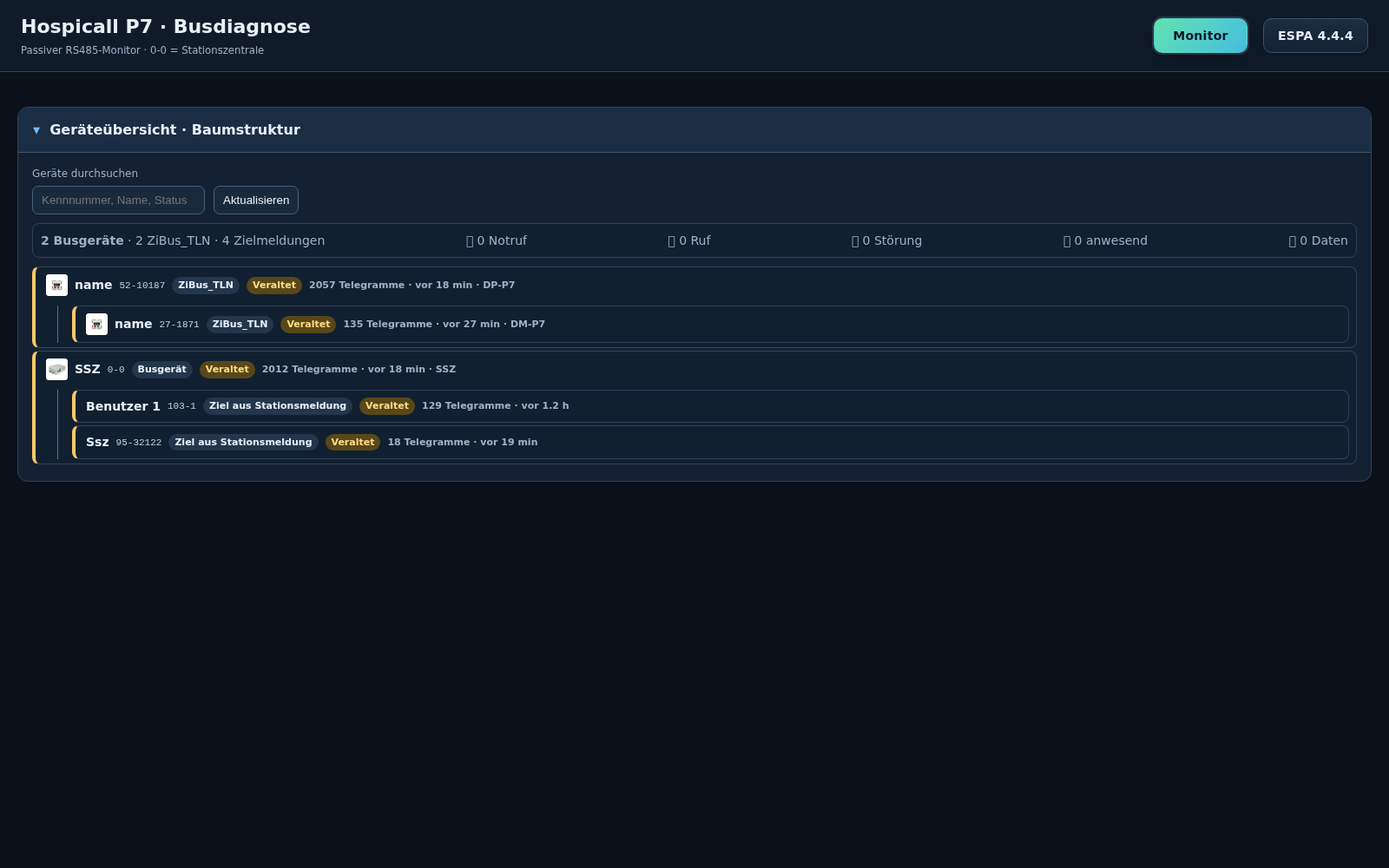
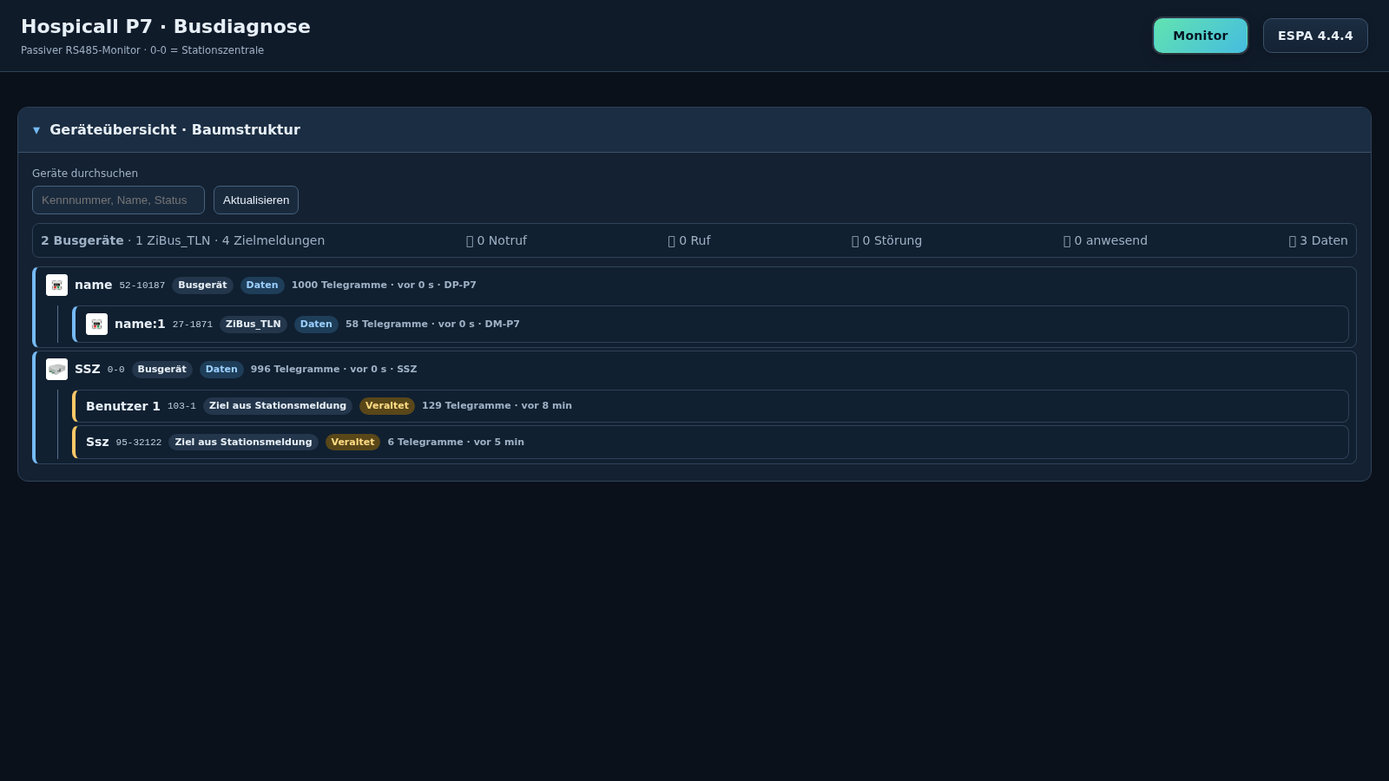
Classify observed P7 bus devices correctly

diff --git a/P7/index.html b/P7/index.html
@@ -36,13 +36,13 @@ function removeGroupType(button){let row=button.closest('.group-type-row'),map=c
 
 function age(n){return n==null?'—':n<60?Math.round(n)+' s':n<3600?Math.round(n/60)+' min':(n/3600).toFixed(1)+' h'}function num(n){return Number(n||0).toLocaleString('de-DE')}
 function renderCharts(){if(!state)return;let now=state.now,span=Number($('range').value),start=now-span,step=Number($('sampleWidth').value)||60,count=Math.ceil(span/step),dev=$('deviceFilter').value,events=state.telemetry||[];let html='';for(const [kind,label,color] of series){if(!$('series_'+kind)?.checked)continue;let vals=Array(count).fill(0);for(const e of events){if(e.kind!==kind||e.time<start||e.time>now||dev!=='*'&&e.device!==dev)continue;vals[Math.min(count-1,Math.floor((e.time-start)/step))]+=Number(e.value||1)}let max=Math.max(1,...vals),sum=vals.reduce((a,b)=>a+b,0),pts=vals.map((v,i)=>`${22+i*756/Math.max(1,count-1)},${128-110*v/max}`).join(' '),dots=vals.map((v,i)=>`<circle class="point" cx="${22+i*756/Math.max(1,count-1)}" cy="${128-110*v/max}" r="2.3" fill="${color}"/>`).join('');html+=`<div class="chart"><div class="charthead"><b style="color:${color}">${label}</b><strong>${num(sum)}</strong></div><svg class="linechart" viewBox="0 0 800 145" preserveAspectRatio="none" role="img" aria-label="${esc(label)} als Liniendiagramm">${[18,73,128].map(y=>`<line class="gridline" x1="22" y1="${y}" x2="778" y2="${y}"/>`).join('')}<polyline class="series-line" stroke="${color}" points="${pts}"/>${dots}<title>${esc(label)} · Maximum ${max} je ${step} s</title></svg><div class="axis"><span>vor ${age(span)}</span><span>Maximum ${max} / ${step} s</span><span>jetzt</span></div></div>`} $('charts').innerHTML=html||'<p class="muted">Keine Datenreihe gewählt.</p>'}
-function renderDevices(){if(!state)return;let expanded=new Set([...$('devices').querySelectorAll('.device[open]')].map(el=>el.dataset.deviceId)),targets=Object.fromEntries(Object.entries(state.central_targets||{}).map(([id,t])=>[canon(id),t])),devices=Object.fromEntries((state.devices||[]).map(d=>[canon(d.id),d])),children=Object.fromEntries(Object.entries(state.embedded_children||{}).map(([id,c])=>[canon(id),c])),stale=Number(state.config?.stale_seconds||180),q=$('search').value.toLowerCase(),list=(state.devices||[]).filter(d=>Number(d.count)>0&&(d.id+' '+(d.name||'')+' '+(targets[canon(d.id)]?.name||'')+' '+(d.history||[]).map(h=>h.message).join(' ')).toLowerCase().includes(q)),order=$('sort').value;if(order==='activity')list.sort((a,b)=>a.age-b.age);else if(order==='issues')list.sort((a,b)=>(b.errors.checksum||0)+(b.polls_without_reply||0)+(b.messages_without_ack||0)-(a.errors.checksum||0)-(a.polls_without_reply||0)-(a.messages_without_ack||0));else if(order==='id')list.sort((a,b)=>a.id.localeCompare(b.id,undefined,{numeric:true}));else list.sort((a,b)=>(a.name||observedItem(canon(a.id),devices,targets,children,state.now,stale).name||a.id).localeCompare(b.name||observedItem(canon(b.id),devices,targets,children,state.now,stale).name||b.id,'de',{numeric:true,sensitivity:'base'}));$('devices').innerHTML=list.length?'<div class="device-grid">'+list.map(d=>{let id=canon(d.id),h=d.history||[],item=observedItem(id,devices,targets,children,state.now,stale),typeInfo=groupTypeFor(id),displayName=d.name||item.name||id,msg=item.label+(item.source?' · '+item.source:''),kind=item.kind,label={emergency:'Notruf',call:'Ruf',fault:'Störung',presence:'Anwesend',away:'Abwesend',stale:'Veraltet',data:'Telegramm'}[kind]||'Telegramm',subdevices=Object.entries(children).filter(([childId,c])=>canon(c.parent)===id).sort((a,b)=>a[0].localeCompare(b[0],undefined,{numeric:true})),subdeviceIcons=subdevices.map(([childId,c])=>{let childItem=observedItem(childId,devices,targets,children,state.now,stale),sd=devices[childId],target=targets[childId],hasStatus=!!(sd&&(Object.values(sd.signals||{}).some(x=>x.time)||sd.reported_status)||Object.keys(c.signals||{}).length||target&&Object.keys(target.statuses||{}).length),ageSeconds=Math.max(0,Number(state.now)-Math.max(Number(c.last_seen||0),Number(devices[canon(c.parent)]?.last_seen||0))),statusKind=hasStatus?childItem.kind:ageSeconds>stale?'stale':'data',statusText=hasStatus?childItem.label:ageSeconds>stale?'ZiBus_TLN veraltet':'ZiBus_TLN im Telegramm gesehen; Einzelstatus nicht decodiert';let picture=typePicture(childId,'subdevice-picture-img')||'<svg class="subdevice-picture" viewBox="0 0 24 24" aria-hidden="true"><rect x="5" y="3" width="14" height="18" rx="2"></rect><path d="M8 7h8M8 11h8M8 15h5"></path><circle cx="12" cy="18" r=".7"></circle></svg>';return '<span class="subdevice-chip '+statusKind+'" title="ZiBus_TLN (Zimmerbus-Teilnehmer) '+esc(childId)+' · '+esc(statusText)+' · gemeldet von '+esc(id)+' · Typ '+esc(c.command||'unbekannt')+'">'+picture+'<span>'+esc(childId)+'</span></span>'}).join('');return `<details class="device room ${kind}" data-device-id="${esc(id)}"><summary><span class="room-top"><span class="device-title">${typeInfo.image?'<img class="group-device-picture" src="'+typeInfo.image+'" alt="" title="'+esc(typeInfo.label||typeInfo.product?.name||('Gruppe '+typeInfo.group))+'">':''}<h2>${esc(displayName)}</h2>${typeInfo.label?'<small class="group-type-code">'+esc(typeInfo.label)+'</small>':''}</span><span class="badge">${label}</span></span><span class="room-meta" title="${esc(id+' · '+msg)}">${esc(id+' · '+msg)}</span>${subdevices.length?'<span class="subdevice-strip" aria-label="'+subdevices.length+' gemeldete ZiBus_TLN">'+subdeviceIcons+'</span>':'<span class="icons"><span class="device-icon '+kind+'" title="Bus-ID '+esc(id)+'">BUS</span></span>'}<span class="room-foot"><span>${num(d.count)} Telegramme · ${subdevices.length} ZiBus_TLN</span><span>${d.age==null?'nie':'vor '+age(d.age)}</span></span></summary><div class="device-more"><small>Bus-ID ${esc(id)} · Telegrammtypen ${(Object.keys(d.types||{}).slice(0,8).map(esc).join(', ')||'keine')}</small><p class="muted">Prüfsummenfehler ${num(d.errors.checksum)} · ohne Antwort ${num(d.polls_without_reply)} · ohne Quittung ${num(d.messages_without_ack)} · bytegleich ${num(d.repetitions)}</p><p class="muted">Letztes Telegramm: ${esc(h[0]?.message||'—')}</p><small>Vorheriges: ${esc(h[1]?.message||'—')}</small><code>${esc(h[0]?.hex||'—')}</code></div></details>`}).join('')+'</div>':'<p class="muted">Keine Busteilnehmer seit dem Zähler-Reset.</p>';$('devices').querySelectorAll('.device').forEach(el=>{if(expanded.has(el.dataset.deviceId))el.open=true})}
+function renderDevices(){if(!state)return;let expanded=new Set([...$('devices').querySelectorAll('.device[open]')].map(el=>el.dataset.deviceId)),targets=Object.fromEntries(Object.entries(state.central_targets||{}).map(([id,t])=>[canon(id),t])),devices=Object.fromEntries((state.devices||[]).map(d=>[canon(d.id),d])),children=Object.fromEntries(Object.entries(state.embedded_children||{}).map(([id,c])=>[canon(id),c])),stale=Number(state.config?.stale_seconds||180),q=$('search').value.toLowerCase(),list=(state.devices||[]).filter(d=>Number(d.count)>0&&(d.id+' '+(d.name||'')+' '+(targets[canon(d.id)]?.name||'')+' '+(d.history||[]).map(h=>h.message).join(' ')).toLowerCase().includes(q)),order=$('sort').value;if(order==='activity')list.sort((a,b)=>a.age-b.age);else if(order==='issues')list.sort((a,b)=>(b.errors.checksum||0)+(b.polls_without_reply||0)+(b.messages_without_ack||0)-(a.errors.checksum||0)-(a.polls_without_reply||0)-(a.messages_without_ack||0));else if(order==='id')list.sort((a,b)=>a.id.localeCompare(b.id,undefined,{numeric:true}));else list.sort((a,b)=>(a.name||observedItem(canon(a.id),devices,targets,children,state.now,stale).name||a.id).localeCompare(b.name||observedItem(canon(b.id),devices,targets,children,state.now,stale).name||b.id,'de',{numeric:true,sensitivity:'base'}));$('devices').innerHTML=list.length?'<div class="device-grid">'+list.map(d=>{let id=canon(d.id),h=d.history||[],item=observedItem(id,devices,targets,children,state.now,stale),typeInfo=groupTypeFor(id),displayName=d.name||item.name||id,msg=item.label+(item.source?' · '+item.source:''),kind=item.kind,label={emergency:'Notruf',call:'Ruf',fault:'Störung',presence:'Anwesend',away:'Abwesend',stale:'Veraltet',data:'Telegramm'}[kind]||'Telegramm',subdevices=Object.entries(children).filter(([childId,c])=>canon(c.parent)===id&&!(devices[childId]&&Number(devices[childId].count)>0)).sort((a,b)=>a[0].localeCompare(b[0],undefined,{numeric:true})),subdeviceIcons=subdevices.map(([childId,c])=>{let childItem=observedItem(childId,devices,targets,children,state.now,stale),sd=devices[childId],target=targets[childId],hasStatus=!!(sd&&(Object.values(sd.signals||{}).some(x=>x.time)||sd.reported_status)||Object.keys(c.signals||{}).length||target&&Object.keys(target.statuses||{}).length),ageSeconds=Math.max(0,Number(state.now)-Math.max(Number(c.last_seen||0),Number(devices[canon(c.parent)]?.last_seen||0))),statusKind=hasStatus?childItem.kind:ageSeconds>stale?'stale':'data',statusText=hasStatus?childItem.label:ageSeconds>stale?'ZiBus_TLN veraltet':'ZiBus_TLN im Telegramm gesehen; Einzelstatus nicht decodiert';let picture=typePicture(childId,'subdevice-picture-img')||'<svg class="subdevice-picture" viewBox="0 0 24 24" aria-hidden="true"><rect x="5" y="3" width="14" height="18" rx="2"></rect><path d="M8 7h8M8 11h8M8 15h5"></path><circle cx="12" cy="18" r=".7"></circle></svg>';return '<span class="subdevice-chip '+statusKind+'" title="ZiBus_TLN (Zimmerbus-Teilnehmer) '+esc(childId)+' · '+esc(statusText)+' · gemeldet von '+esc(id)+' · Typ '+esc(c.command||'unbekannt')+'">'+picture+'<span>'+esc(childId)+'</span></span>'}).join('');return `<details class="device room ${kind}" data-device-id="${esc(id)}"><summary><span class="room-top"><span class="device-title">${typeInfo.image?'<img class="group-device-picture" src="'+typeInfo.image+'" alt="" title="'+esc(typeInfo.label||typeInfo.product?.name||('Gruppe '+typeInfo.group))+'">':''}<h2>${esc(displayName)}</h2>${typeInfo.label?'<small class="group-type-code">'+esc(typeInfo.label)+'</small>':''}</span><span class="badge">${label}</span></span><span class="room-meta" title="${esc(id+' · '+msg)}">${esc(id+' · '+msg)}</span>${subdevices.length?'<span class="subdevice-strip" aria-label="'+subdevices.length+' gemeldete ZiBus_TLN">'+subdeviceIcons+'</span>':'<span class="icons"><span class="device-icon '+kind+'" title="Bus-ID '+esc(id)+'">BUS</span></span>'}<span class="room-foot"><span>${num(d.count)} Telegramme · ${subdevices.length} ZiBus_TLN</span><span>${d.age==null?'nie':'vor '+age(d.age)}</span></span></summary><div class="device-more"><small>Bus-ID ${esc(id)} · Telegrammtypen ${(Object.keys(d.types||{}).slice(0,8).map(esc).join(', ')||'keine')}</small><p class="muted">Prüfsummenfehler ${num(d.errors.checksum)} · ohne Antwort ${num(d.polls_without_reply)} · ohne Quittung ${num(d.messages_without_ack)} · bytegleich ${num(d.repetitions)}</p><p class="muted">Letztes Telegramm: ${esc(h[0]?.message||'—')}</p><small>Vorheriges: ${esc(h[1]?.message||'—')}</small><code>${esc(h[0]?.hex||'—')}</code></div></details>`}).join('')+'</div>':'<p class="muted">Keine Busteilnehmer seit dem Zähler-Reset.</p>';$('devices').querySelectorAll('.device').forEach(el=>{if(expanded.has(el.dataset.deviceId))el.open=true})}
 
 const levels={emergency:0,call:1,fault:2,presence:3,away:4,data:5,stale:6};
 const labels={emergency:'Notruf',call:'Ruf',fault:'Störung',presence:'Anwesend',away:'Abwesend',data:'Daten',stale:'Veraltet'};
-function observedItem(id,devices,targets,children,now,stale){let d=devices[id],t=targets[id],c=children[id],parent=c?.parent?devices[canon(c.parent)]:null,liveTime=Math.max(Number(d?.last_seen||0),Number(parent?.last_seen||0),Number(c?.last_seen||0),Number(t?.last_seen||0)),candidates=[];if(d){for(let sig of Object.values(d.signals||{}))if(sig.time)candidates.push({kind:sig.active===true?(sig.code==='0A'?'emergency':sig.code==='07'||sig.code==='09'?'call':sig.code==='0E'?'presence':'data'):sig.active===false&&sig.code==='0E'?'away':'data',label:sig.label||sig.name||sig.code,time:sig.time,liveTime:d.last_seen,source:'Telegramm '+sig.code});if(d.reported_status&&d.reported_status!=='Ruhezustand')candidates.push({kind:/Notruf/.test(d.reported_status)?'emergency':/Ruf|Alarm/.test(d.reported_status)?'call':/Anwesend/.test(d.reported_status)?'presence':'data',label:d.reported_status,time:d.reported_status_time||d.last_seen,liveTime:d.last_seen,source:'Telegrammstatus von '+id})}if(c)for(let sig of Object.values(c.signals||{}))if(sig.time)candidates.push({kind:sig.active===true?(sig.code==='0A'?'emergency':sig.code==='07'||sig.code==='09'?'call':sig.code==='0E'?'presence':'data'):sig.active===false&&sig.code==='0E'?'away':'data',label:sig.label||sig.name||sig.code,time:sig.time,liveTime:Math.max(Number(c.last_seen||0),Number(parent?.last_seen||0)),source:'ZiBus_TLN-Telegramm von '+(sig.source||c.parent||'unbekannt')});if(t)for(let status of Object.values(t.statuses||{}))if(status.time)candidates.push({kind:status.active===false?'data':status.kind==='emergency'?'emergency':status.kind==='call'||status.kind==='bath_call'?'call':status.kind==='fault'?'fault':status.kind==='presence'?'presence':'data',label:status.label||status.name||status.code||'Stationsmeldung',time:status.time,liveTime,source:'Zielmeldung von '+(status.source||'0-0')+' an '+id});let fresh=candidates.filter(x=>now-Math.max(Number(x.time||0),Number(x.liveTime||0))<=stale).sort((a,b)=>Number(b.time||0)-Number(a.time||0)||levels[a.kind]-levels[b.kind]),best=fresh[0];if(!best&&candidates.length){best={...candidates.sort((a,b)=>Number(b.time||0)-Number(a.time||0))[0],kind:'stale'}}if(!best&&d)best={kind:now-d.last_seen>stale?'stale':'data',label:'Telegramm beobachtet',time:d.last_seen,liveTime:d.last_seen,source:'Busframe'};if(!best&&t)best={kind:now-t.last_seen>stale?'stale':'data',label:'Stationsmeldung',time:t.last_seen,liveTime:t.last_seen,source:'Zielmeldung aus Mitschnitt'};if(!best)best={kind:now-liveTime>stale?'stale':'data',label:'Gerät gesehen',time:liveTime,liveTime,source:c?'Telegramm '+c.command:'Busframe'};return {...best,id,d,t,c,name:t?.name||'',count:d?.count||t?.count||c?.count||0,observed_at:Math.max(Number(best.time||0),Number(best.liveTime||0))}}
+function observedItem(id,devices,targets,children,now,stale){let d=devices[id],t=targets[id],c=children[id],parent=c?.parent?devices[canon(c.parent)]:null,liveTime=Math.max(Number(d?.last_seen||0),Number(parent?.last_seen||0),Number(c?.last_seen||0),Number(t?.last_seen||0)),candidates=[];if(d){for(let sig of Object.values(d.signals||{}))if(sig.time)candidates.push({kind:sig.active===true?(sig.code==='0A'?'emergency':sig.code==='07'||sig.code==='09'?'call':sig.code==='0E'?'presence':'data'):sig.active===false&&sig.code==='0E'?'away':'data',label:sig.label||sig.name||sig.code,time:sig.time,liveTime:d.last_seen,source:'Telegramm '+sig.code});if(d.reported_status&&d.reported_status!=='Ruhezustand')candidates.push({kind:/Notruf/.test(d.reported_status)?'emergency':/Ruf|Alarm/.test(d.reported_status)?'call':/Anwesend/.test(d.reported_status)?'presence':'data',label:d.reported_status,time:d.reported_status_time||d.last_seen,liveTime:d.last_seen,source:'Telegrammstatus von '+id})}if(c&&!d)for(let sig of Object.values(c.signals||{}))if(sig.time)candidates.push({kind:sig.active===true?(sig.code==='0A'?'emergency':sig.code==='07'||sig.code==='09'?'call':sig.code==='0E'?'presence':'data'):sig.active===false&&sig.code==='0E'?'away':'data',label:sig.label||sig.name||sig.code,time:sig.time,liveTime:Math.max(Number(c.last_seen||0),Number(parent?.last_seen||0)),source:'ZiBus_TLN-Telegramm von '+(sig.source||c.parent||'unbekannt')});if(t)for(let status of Object.values(t.statuses||{}))if(status.time)candidates.push({kind:status.active===false?'data':status.kind==='emergency'?'emergency':status.kind==='call'||status.kind==='bath_call'?'call':status.kind==='fault'?'fault':status.kind==='presence'?'presence':'data',label:status.label||status.name||status.code||'Stationsmeldung',time:status.time,liveTime,source:'Zielmeldung von '+(status.source||'0-0')+' an '+id});let fresh=candidates.filter(x=>now-Math.max(Number(x.time||0),Number(x.liveTime||0))<=stale).sort((a,b)=>Number(b.time||0)-Number(a.time||0)||levels[a.kind]-levels[b.kind]),best=fresh[0];if(!best&&candidates.length){best={...candidates.sort((a,b)=>Number(b.time||0)-Number(a.time||0))[0],kind:'stale'}}if(!best&&d)best={kind:now-d.last_seen>stale?'stale':'data',label:'Telegramm beobachtet',time:d.last_seen,liveTime:d.last_seen,source:'Busframe'};if(!best&&t)best={kind:now-t.last_seen>stale?'stale':'data',label:'Stationsmeldung',time:t.last_seen,liveTime:t.last_seen,source:'Zielmeldung aus Mitschnitt'};if(!best)best={kind:now-liveTime>stale?'stale':'data',label:'Gerät gesehen',time:liveTime,liveTime,source:c?'Telegramm '+c.command:'Busframe'};return {...best,id,d,t,c,name:t?.name||'',count:d?.count||t?.count||c?.count||0,observed_at:Math.max(Number(best.time||0),Number(best.liveTime||0))}}
 
-function renderDeviceTree(){if(!state)return;let openIds=new Set([...$('deviceTree').querySelectorAll('.tree-node[open]')].map(x=>x.dataset.treeId));for(let id of openIds)treeExpanded.add(id);let devices=Object.fromEntries((state.devices||[]).filter(d=>Number(d.count)>0).map(d=>[canon(d.id),d])),targets=Object.fromEntries(Object.entries(state.central_targets||{}).map(([id,t])=>[canon(id),t])),children=Object.fromEntries(Object.entries(state.embedded_children||{}).map(([id,c])=>[canon(id),c])),nodes=new Map(),stale=Number(state.config?.stale_seconds||180);for(let [id,d] of Object.entries(devices))nodes.set(id,{id,device:d});for(let [id,c] of Object.entries(children)){let n=nodes.get(id)||{id};n.child=c;nodes.set(id,n)}for(let [id,t] of Object.entries(targets)){if(!t.name&&!Object.keys(t.statuses||{}).length)continue;let n=nodes.get(id)||{id};n.target=t;nodes.set(id,n)}for(let [id,n] of [...nodes]){let parent=n.child?.parent?canon(n.child.parent):'';if(parent&&parent!==id&&!nodes.has(parent))nodes.set(parent,{id:parent})}let parentOf=new Map();for(let [id,n] of nodes){let parent=n.child?.parent?canon(n.child.parent):'';if(parent&&parent!==id&&nodes.has(parent))parentOf.set(id,parent);else if(!n.device&&!n.child&&n.target&&id!=='0-0'&&nodes.has('0-0'))parentOf.set(id,'0-0')}let childrenOf=new Map();for(let [id,parent] of parentOf){if(!childrenOf.has(parent))childrenOf.set(parent,[]);childrenOf.get(parent).push(id)}let nameOf=id=>{let n=nodes.get(id)||{},type=groupTypeFor(id);return n.target?.name||n.device?.name||type.label||(n.child?'ZiBus_TLN':id==='0-0'?'Zentrale':'Busgerät')};for(let ids of childrenOf.values())ids.sort((a,b)=>nameOf(a).localeCompare(nameOf(b),'de',{numeric:true,sensitivity:'base'})||a.localeCompare(b,undefined,{numeric:true}));let query=$('treeSearch').value.trim().toLocaleLowerCase('de'),rendered=new Set();function nodeHtml(id,path=new Set(),depth=0){if(path.has(id))return '';rendered.add(id);let n=nodes.get(id)||{},item=observedItem(id,devices,targets,children,state.now,stale),type=groupTypeFor(id),name=nameOf(id),kind=item.kind||'data',statusLabel={emergency:'Notruf',call:'Ruf',fault:'Störung',presence:'Anwesend',away:'Abwesend',stale:'Veraltet',data:'Daten'}[kind]||'Daten',count=Number(n.device?.count||n.child?.count||n.target?.count||0),last=Math.max(Number(n.device?.last_seen||0),Number(n.child?.last_seen||0),Number(n.target?.last_seen||0),Number(item.time||0)),matches=!query||(id+' '+name+' '+type.label+' '+item.label+' '+(n.target?.name||'')).toLocaleLowerCase('de').includes(query),nextPath=new Set(path);nextPath.add(id);let kids=(childrenOf.get(id)||[]).map(child=>nodeHtml(child,nextPath,depth+1)).filter(Boolean);if(query&&!matches&&!kids.length)return '';let image=typePicture(id,'tree-device-picture'),role=n.child?'ZiBus_TLN':n.target&&!n.device?'Ziel aus Stationsmeldung':n.device?'Busgerät':'Mitschnitt-Elternknoten',time=last?'vor '+age(Math.max(0,state.now-last)):'nicht gesehen',open=query||treeExpanded.has(id)||depth===0?' open':'',tone={emergency:'#ff6678',call:'#ff6678',fault:'#ffc868',presence:'#54d9a0',away:'#76baf5',stale:'#ffc868',data:'#76baf5'}[kind]||'#76baf5';return '<details class="tree-node '+kind+'" data-tree-id="'+esc(id)+'" style="--tree-tone:'+tone+'"'+open+'><summary>'+image+'<strong>'+esc(name)+'</strong><code>'+esc(id)+'</code><span class="tree-kind">'+role+'</span><span class="tree-status '+kind+'">'+statusLabel+'</span><small>'+count+' Telegramme · '+time+(type.label?' · '+esc(type.label):'')+'</small></summary>'+(kids.length?'<div class="tree-children">'+kids.join('')+'</div>':'')+'</details>'}let roots=[...nodes.keys()].filter(id=>!parentOf.has(id)).sort((a,b)=>nameOf(a).localeCompare(nameOf(b),'de',{numeric:true,sensitivity:'base'})||a.localeCompare(b,undefined,{numeric:true}));let html=roots.map(id=>nodeHtml(id)).filter(Boolean);for(let id of nodes.keys())if(!rendered.has(id)){let node=nodeHtml(id);if(node)html.push(node)}$('deviceTree').innerHTML=html.join('')||'<p class="muted">Seit dem Zähler-Reset wurden noch keine Geräte oder ZiBus_TLN im Mitschnitt erkannt.</p>';let tally={emergency:0,call:0,fault:0,presence:0,data:0};for(let id of nodes.keys()){let n=nodes.get(id)||{},item=observedItem(id,devices,targets,children,state.now,stale);if(tally[item.kind]!=null)tally[item.kind]++}let busCount=[...nodes.values()].filter(n=>n.device).length,childCount=[...nodes.values()].filter(n=>n.child).length,targetCount=[...nodes.values()].filter(n=>n.target).length,summary='<span><strong>'+busCount+' Busgeräte</strong> · '+childCount+' ZiBus_TLN · '+targetCount+' Zielmeldungen</span><span>🚨 '+tally.emergency+' Notruf</span><span>🔴 '+tally.call+' Ruf</span><span>🟡 '+tally.fault+' Störung</span><span>🟢 '+tally.presence+' anwesend</span><span>🔵 '+tally.data+' Daten</span>';$('deviceTreeSummary').innerHTML=summary;treeSummaryHtml=summary}
+function renderDeviceTree(){if(!state)return;let openIds=new Set([...$('deviceTree').querySelectorAll('.tree-node[open]')].map(x=>x.dataset.treeId));for(let id of openIds)treeExpanded.add(id);let devices=Object.fromEntries((state.devices||[]).filter(d=>Number(d.count)>0).map(d=>[canon(d.id),d])),targets=Object.fromEntries(Object.entries(state.central_targets||{}).map(([id,t])=>[canon(id),t])),children=Object.fromEntries(Object.entries(state.embedded_children||{}).map(([id,c])=>[canon(id),c])),nodes=new Map(),stale=Number(state.config?.stale_seconds||180);for(let [id,d] of Object.entries(devices))nodes.set(id,{id,device:d});for(let [id,c] of Object.entries(children)){let n=nodes.get(id)||{id};n.child=c;nodes.set(id,n)}for(let [id,t] of Object.entries(targets)){if(!t.name&&!Object.keys(t.statuses||{}).length)continue;let n=nodes.get(id)||{id};n.target=t;nodes.set(id,n)}for(let [id,n] of [...nodes]){let parent=!n.device&&n.child?.parent?canon(n.child.parent):'';if(parent&&parent!==id&&!nodes.has(parent))nodes.set(parent,{id:parent})}let parentOf=new Map();for(let [id,n] of nodes){let parent=!n.device&&n.child?.parent?canon(n.child.parent):'';if(parent&&parent!==id&&nodes.has(parent))parentOf.set(id,parent);else if(!n.device&&!n.child&&n.target&&id!=='0-0'&&nodes.has('0-0'))parentOf.set(id,'0-0')}let childrenOf=new Map();for(let [id,parent] of parentOf){if(!childrenOf.has(parent))childrenOf.set(parent,[]);childrenOf.get(parent).push(id)}let nameOf=id=>{let n=nodes.get(id)||{},type=groupTypeFor(id);return n.target?.name||n.device?.name||type.label||(n.child?'ZiBus_TLN':id==='0-0'?'Zentrale':'Busgerät')};for(let ids of childrenOf.values())ids.sort((a,b)=>nameOf(a).localeCompare(nameOf(b),'de',{numeric:true,sensitivity:'base'})||a.localeCompare(b,undefined,{numeric:true}));let query=$('treeSearch').value.trim().toLocaleLowerCase('de'),rendered=new Set();function nodeHtml(id,path=new Set(),depth=0){if(path.has(id))return '';rendered.add(id);let n=nodes.get(id)||{},item=observedItem(id,devices,targets,children,state.now,stale),type=groupTypeFor(id),name=nameOf(id),kind=item.kind||'data',statusLabel={emergency:'Notruf',call:'Ruf',fault:'Störung',presence:'Anwesend',away:'Abwesend',stale:'Veraltet',data:'Daten'}[kind]||'Daten',count=Number(n.device?.count||n.child?.count||n.target?.count||0),last=Math.max(Number(n.device?.last_seen||0),Number(n.child?.last_seen||0),Number(n.target?.last_seen||0),Number(item.time||0)),matches=!query||(id+' '+name+' '+type.label+' '+item.label+' '+(n.target?.name||'')).toLocaleLowerCase('de').includes(query),nextPath=new Set(path);nextPath.add(id);let kids=(childrenOf.get(id)||[]).map(child=>nodeHtml(child,nextPath,depth+1)).filter(Boolean);if(query&&!matches&&!kids.length)return '';let image=typePicture(id,'tree-device-picture'),role=n.device?'Busgerät':n.child?'ZiBus_TLN':n.target?'Ziel aus Stationsmeldung':'Mitschnitt-Elternknoten',time=last?'vor '+age(Math.max(0,state.now-last)):'nicht gesehen',open=query||treeExpanded.has(id)||depth===0?' open':'',tone={emergency:'#ff6678',call:'#ff6678',fault:'#ffc868',presence:'#54d9a0',away:'#76baf5',stale:'#ffc868',data:'#76baf5'}[kind]||'#76baf5';return '<details class="tree-node '+kind+'" data-tree-id="'+esc(id)+'" style="--tree-tone:'+tone+'"'+open+'><summary>'+image+'<strong>'+esc(name)+'</strong><code>'+esc(id)+'</code><span class="tree-kind">'+role+'</span><span class="tree-status '+kind+'">'+statusLabel+'</span><small>'+count+' Telegramme · '+time+(type.label?' · '+esc(type.label):'')+'</small></summary>'+(kids.length?'<div class="tree-children">'+kids.join('')+'</div>':'')+'</details>'}let roots=[...nodes.keys()].filter(id=>!parentOf.has(id)).sort((a,b)=>nameOf(a).localeCompare(nameOf(b),'de',{numeric:true,sensitivity:'base'})||a.localeCompare(b,undefined,{numeric:true}));let html=roots.map(id=>nodeHtml(id)).filter(Boolean);for(let id of nodes.keys())if(!rendered.has(id)){let node=nodeHtml(id);if(node)html.push(node)}$('deviceTree').innerHTML=html.join('')||'<p class="muted">Seit dem Zähler-Reset wurden noch keine Geräte oder ZiBus_TLN im Mitschnitt erkannt.</p>';let tally={emergency:0,call:0,fault:0,presence:0,data:0};for(let id of nodes.keys()){let n=nodes.get(id)||{},item=observedItem(id,devices,targets,children,state.now,stale);if(tally[item.kind]!=null)tally[item.kind]++}let busCount=[...nodes.values()].filter(n=>n.device).length,childCount=[...nodes.values()].filter(n=>n.child&&!n.device).length,targetCount=[...nodes.values()].filter(n=>n.target).length,summary='<span><strong>'+busCount+' Busgeräte</strong> · '+childCount+' ZiBus_TLN · '+targetCount+' Zielmeldungen</span><span>🚨 '+tally.emergency+' Notruf</span><span>🔴 '+tally.call+' Ruf</span><span>🟡 '+tally.fault+' Störung</span><span>🟢 '+tally.presence+' anwesend</span><span>🔵 '+tally.data+' Daten</span>';$('deviceTreeSummary').innerHTML=summary;treeSummaryHtml=summary}
 
 function render(){if(!state)return;let s=state,b=s.bus||{};renderPlayback();renderDeviceTree();if(!groupTypesEditing)renderGroupTypeSettings();$('run').textContent=s.monitor_running?'Mitschnitt läuft':s.playback?.state==='playing'?'Wiedergabe läuft':s.playback?.state==='paused'?'Wiedergabe pausiert':s.playback?.state==='finished'?'Wiedergabe beendet':s.playback?.file?'Wiedergabe gestoppt':'Mitschnitt gestoppt';$('run').className='badge'+(s.monitor_running||s.playback?.state==='playing'?'':' stop');$('toggle').textContent=s.monitor_running?'Mitschnitt stoppen':'Mitschnitt starten';$('connection').textContent=(s.port_error?'Portfehler: '+s.port_error:s.config.port+' · '+s.config.baud+' Baud')+(s.capture_file?' · Datei '+s.capture_file:'');let cards=[['Telegramme',b.frames||0,''],['Busteilnehmer',(s.devices||[]).filter(d=>Number(d.count)>0).length,''],['Prüfsummenfehler',b.checksum_errors||0,'red'],['Stations-Störmeldungen',b.station_fault_reports||0,'red'],['Ungerahmte Bytes',b.unframed||0,'amber'],['Ohne Antwort',b.polls_without_reply||0,'amber'],['Ohne Quittung',b.messages_without_ack||0,'amber'],['Bytegleich erneut',b.repetitions||0,'blue'],['Busruhe',age(s.current_silence_seconds),s.silence_level==='critical'?'red':s.silence_level==='warning'?'amber':'green']];$('metrics').innerHTML=cards.map(([label,val,color])=>'<div class="metric"><b class="'+color+'">'+(typeof val==='number'?num(val):val)+'</b><span>'+label+'</span></div>').join('');let sel=$('deviceFilter'),old=sel.value;setSelectOptions(sel,'<option value="*">Alle Geräte</option>'+s.devices.map(d=>'<option value="'+esc(d.id)+'">'+esc(d.id)+'</option>').join(''));sel.value=[...sel.options].some(o=>o.value===old)?old:'*';renderCharts();renderDevices();$('deviceRoomSummary').innerHTML=treeSummaryHtml;let ev=s.events||[];$('faults').innerHTML=renderEventGroups(ev.filter(x=>['error','gap','missing_ack','malformed','unknown'].includes(x.kind)),false,true)||'<p class="muted">Keine Auffälligkeiten seit dem Zähler-Reset.</p>';$('changes').innerHTML=renderEventGroups(ev.filter(x=>['change','marker','info'].includes(x.kind)),true,true)||'<p class="muted">Noch keine Änderungen.</p>';if(!editing){$('port').value=s.config.port;$('baud').value=s.config.baud;$('stale').value=s.config.stale_seconds;$('offline').value=s.config.offline_seconds;$('reply').value=s.config.reply_timeout_seconds}}
 function renderEventGroups(events,showPicture,showRaw){let groups=new Map();for(let e of events){let key=JSON.stringify([e.kind,e.device||'',e.message||'']),group=groups.get(key);if(!group){group={event:e,count:0};groups.set(key,group)}group.count++;if(Number(e.time)>Number(group.event.time))group.event=e}return [...groups.values()].slice(0,70).map(g=>eventHtml(g.event,showPicture,showRaw,g.count)).join('')}
